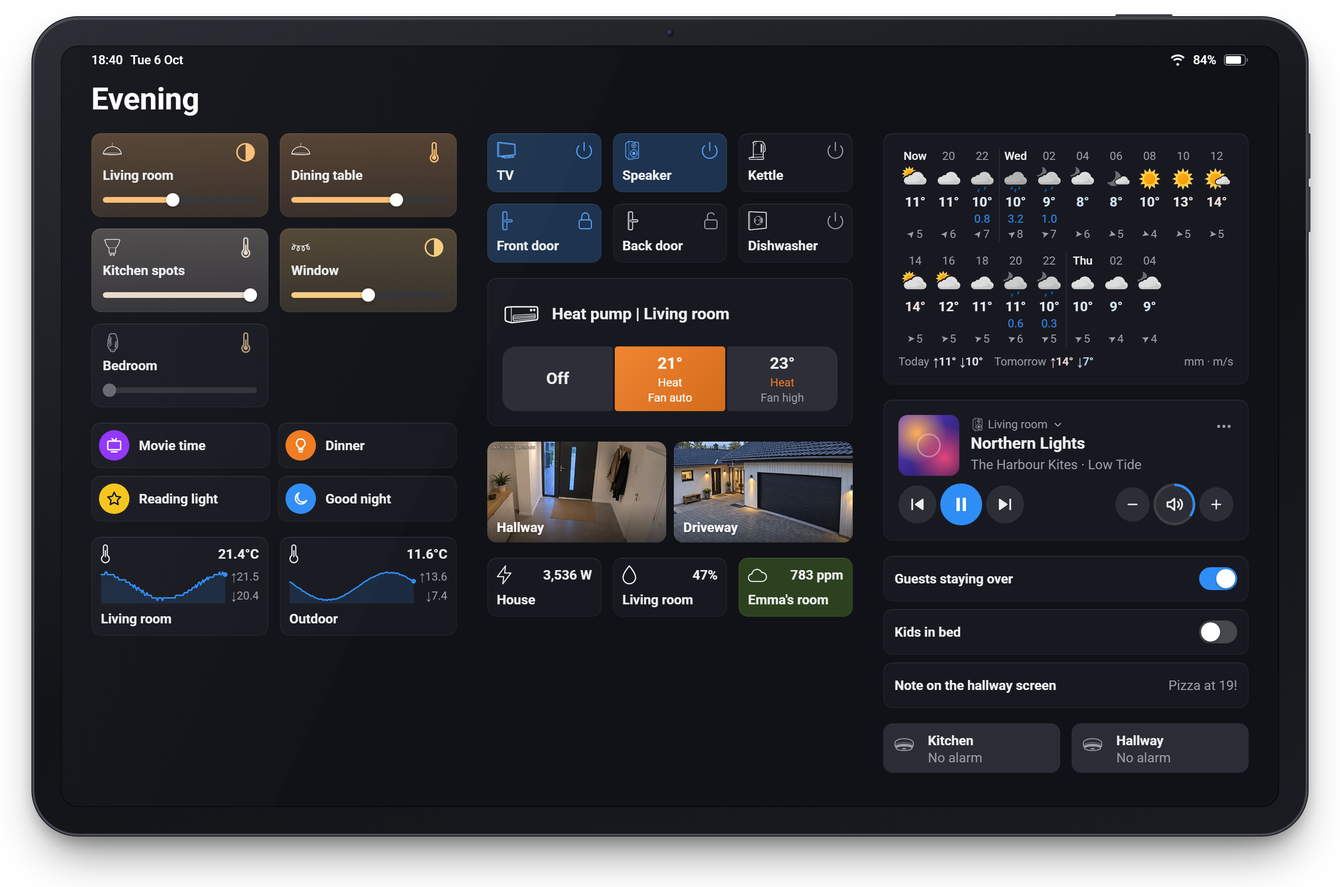
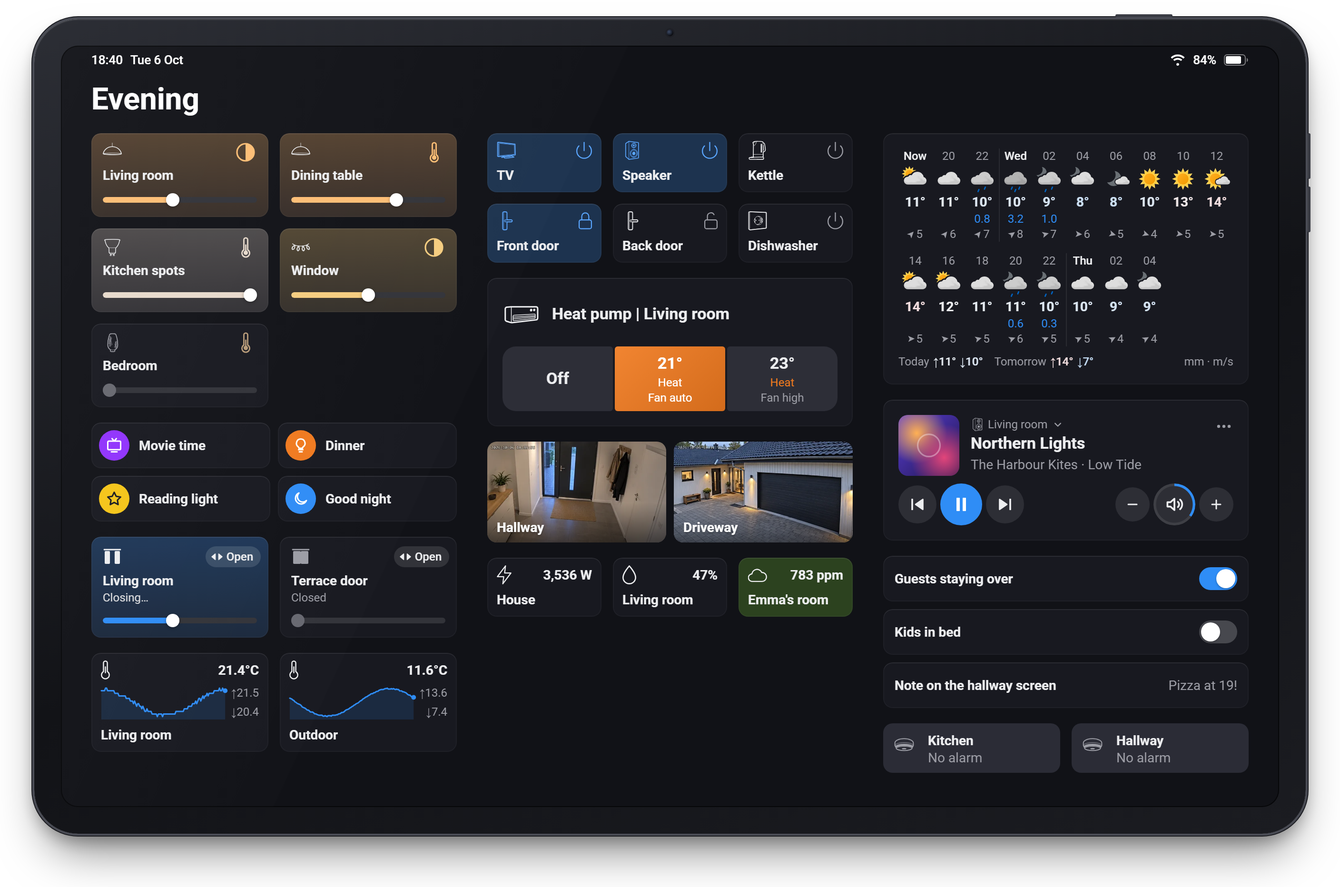
Shorter README; curtains on the Evening showcase
The README's widget sections are a sentence or two and a short settings
line each, the API key explanation is one section the four widgets that
need it link to, and the dashboard examples are just their names. The
Evening showcase gains two curtains (the living room's closing at dusk),
so every widget but the Smart Stack is on a dashboard.

Claude-Session: https://claude.ai/code/session_01JrMJVspJeLygBp5YX8rqay

Changed region(s): [[0.0625, 0.5912, 0.3438, 0.8401], [0.2188, 0.7468, 0.3438, 0.8401]]

diff --git a/dev/showcase.html b/dev/showcase.html
@@ -31,6 +31,7 @@
   <link rel="stylesheet" href="../widgets/lights/public/widget.css">
   <link rel="stylesheet" href="../widgets/sparklines/public/widget.css">
   <link rel="stylesheet" href="../widgets/media/public/widget.css">
+  <link rel="stylesheet" href="../widgets/curtains/public/widget.css">
   <script src="../widgets/electricity/public/widget.js"></script>
   <script src="../widgets/thermostat/public/widget.js"></script>
   <script src="../widgets/quickactions/public/widget.js"></script>
@@ -48,6 +49,7 @@
   <script src="../widgets/lights/public/widget.js"></script>
   <script src="../widgets/sparklines/public/widget.js"></script>
   <script src="../widgets/media/public/widget.js"></script>
+  <script src="../widgets/curtains/public/widget.js"></script>
   <script src="../temp/screenshot-icons.js" onerror="window.ICONS = {}"></script>
   <script src="mock-media.js"></script>
   <script src="mock-util.js"></script>

diff --git a/dev/showcase-data.js b/dev/showcase-data.js
@@ -455,6 +455,11 @@
             ['advanced:v1', 'Movie time', 'purple', 'tv'], ['flow:v2', 'Dinner', 'orange', 'bulb'],
             ['flow:v3', 'Reading light', 'yellow', 'star'], ['flow:v4', 'Good night', 'blue', 'moon'],
           ]),
+          // Dusk: the living room curtain on its way down, the terrace door's already closed.
+          { type: 'curtains', devices: [
+            { id: 'ec1', name: 'Living room', kind: 'curtain', caps: { windowcoverings_set: { value: 0.45, setable: true }, windowcoverings_state: { value: 'down', setable: true } } },
+            { id: 'ec2', name: 'Terrace door', kind: 'curtain', caps: { windowcoverings_set: { value: 0, setable: true }, windowcoverings_state: { value: 'idle', setable: true } } },
+          ] },
           { type: 'sparklines', slots: indoorSparks.slice(0, 2) },
         ],
         [

diff --git a/dev/showcase-mount.js b/dev/showcase-mount.js
@@ -22,6 +22,7 @@ const MOUNT = {
   locks: (el, w) => createLocksWidget(el, w.opts || {}).setState({ devices: w.devices, language: 'en' }),
   sparklines: (el, w) => createSparklinesWidget(el, w.opts || {}).setState(w.slots),
   lights: (el, w) => createLightsWidget(el, w.opts || {}).setState(w.devices),
+  curtains: (el, w) => createCurtainsWidget(el, w.opts || {}).setState(w.devices),
   cameras: (el, w) => { const x = createCamerasWidget(el, w.opts || {}); x.setState(w.cameras); x.refresh(); },
   heatmap: (el, w) => createHeatmapWidget(el, { locale: LOCALE, ...w.opts }).setData(w.data),
   // The made-up speakers of mock-media.js (drawn covers); the fixed clock keeps the position still.

diff --git a/dev/mock-dashboard.js b/dev/mock-dashboard.js
@@ -55,7 +55,7 @@
   const doors = findWidget('locks'); // security: the shed unlocked and the garage open, here with the list showing
   MOUNT.locks(el('w-locks'), { ...doors, opts: { ...doors.opts, view: 'list' } });
 
-  // Solbakken's curtains (no showcase dashboard has them): one open, one closing (so a tap would open it again), one closed and a
+  // Solbakken's curtains (four more than the Evening dashboard's two): one open, one closing (so a tap would open it again), one closed and a
   // blind part open.
   const cap = value => ({ value, setable: true });
   const curtains = createCurtainsWidget(el('w-curtains'), {});

diff --git a/README.md b/README.md
@@ -83,192 +83,162 @@ Several widgets in one spot, one at a time, with the one that matters brought fo
 ## Electricity Overview
 <img src="docs/screenshots/electricity.png" alt="Electricity Overview on a Homey dashboard" width="358">
 
-Live power use (30 seconds to 1 hour), the hourly price from yesterday to 12 hours ahead, the last 24 hours of usage and the cheapest upcoming hour. Tap a chart, or hover with a mouse, to see the value at that moment.
+Live power use, the hourly price from yesterday to 12 hours ahead (with your tariffs and taxes from Homey Energy), the last 24 hours of usage and the cheapest hour ahead. Tap a chart to see its values. Works with a fixed price too, and shows solar export below zero.
 
-Works with dynamic prices or a fixed price set in Homey Energy (Homey Pro 12.6 or later); with a fixed price the header shows it and usage gets its own chart. Dynamic prices include the tariffs and taxes you set up in Homey Energy, as in Homey's own Energy tab. Solar export shows below zero in yellow. Needs a device that reports power.
-
-**Settings:** power meter, live chart time span, show electricity prices, include tariffs and taxes (on by default; off shows the spot price), usage history (on the price chart or separate, neutral or purple), smooth lines, lowest price in the next 12 h, 24 h or both.
+**Settings:** power meter, live time span, prices, tariffs and taxes, usage history, smooth lines, lowest price in 12 h / 24 h, compact layout.
 
 ## Thermostat Shortcuts
 <img src="docs/screenshots/thermostat.png" alt="Thermostat Shortcuts on a Homey dashboard" width="358">
 
-Three one-tap presets for a thermostat, heat pump or air conditioner, such as *Off*, *Heat 21°* and *Heat 24° · Fan level 5*. Each sets on/off, the target temperature, the mode and one extra option such as the fan speed. The matching preset lights up; otherwise the widget shows the device's current state.
+Three one-tap presets for a thermostat, heat pump or air conditioner, such as *Off*, *Heat 21°* and *Heat 24° · Fan level 5*. The matching preset lights up.
 
-**Settings:** thermostat or aircon, and per button: power (on, off or unchanged), mode, temperature, and a fan or other setting.
+**Settings:** the device, compact layout, and per button: power, mode, temperature and one extra option such as the fan speed.
 
 ## Device Quick Actions
 <img src="docs/screenshots/quickactions.png" alt="Device Quick Actions on a Homey dashboard" width="358">
 
-Half-height tiles that run a device's quick action with one tap, the same as the round button on Homey's own tile: on/off, lock/unlock, play/pause or a button press. A tile is highlighted while the device is on, locked or playing.
+Half-height tiles that run a device's quick action with one tap (on/off, lock, play/pause, a button), highlighted while it's on.
 
-**Settings:** devices, active style (blue tint or lighter tile).
+**Settings:** devices, active style.
 
 ## Sensor Alarms
 <img src="docs/screenshots/sensoralarms.png" alt="Sensor Alarms on a Homey dashboard" width="358">
 
-Tiles in the style of Homey's temperature tiles that show *No alarm*, the alarm that's on (such as *Smoke alarm*) or the number of alarms, and turn red while one is on. Every alarm counts, including those added by apps, such as radon.
+Tiles that show *No alarm*, the alarm that's on or how many, and turn red while one is. Every alarm counts, including apps' own such as radon. Tap a tile for all of its alarms.
 
-**Settings:** sensors, count motion and contact as alarms (off by default).
+**Settings:** sensors, count motion and contact, tile names.
 
 ## Sensor Dots
 <img src="docs/screenshots/sensordots.png" alt="Sensor Dots on a Homey dashboard" width="358">
 
-Motion sensors, door and window contacts and camera detections (person, vehicle, pet) as a grid of dots: grey while quiet, blue while active, as many per row as fit. Tap a dot to show its name, what's active and since when, such as *Garage · Open since 18:17*, over its row; tap that line to close it.
+Motion, contact and camera sensors as a grid of dots that light up while active. Tap a dot for its name and since when, such as *Garage · Open since 18:17*.
 
-**Settings:** sensors, title (an optional header inside the tile), colour when idle (grey by default) and when active (blue by default): grey, blue, red, orange, yellow, green or purple.
+**Settings:** sensors, title, idle and active colours.
 
 ## Weather Forecast
 <img src="docs/screenshots/weather.png" alt="Weather Forecast on a Homey dashboard" width="358">
 
-The next 36 hours for your Homey's location from [MET Norway](https://www.met.no/en) ([yr.no](https://www.yr.no)): icon, temperature, precipitation and wind for each hour, with today's and tomorrow's high and low underneath. Swipe sideways to see further ahead.
+The next 36 hours from [MET Norway](https://www.met.no/en) ([yr.no](https://www.yr.no)), hour by hour, with today's and tomorrow's high and low. Swipe sideways to see further ahead.
 
-**Settings:** compact or detailed columns, one or two rows, every 1, 2 or 3 hours, colour theme.
+**Settings:** compact or detailed, one or two rows, 1–3 hours per column, colour theme.
 
 Weather data from MET Norway, licensed under [CC BY 4.0](https://creativecommons.org/licenses/by/4.0/). Icons: [Yr's weather symbols](https://github.com/metno/weathericons) (MIT).
 
 ## Insights Heatmap
 <img src="docs/screenshots/heatmap.png" alt="Insights Heatmap on a Homey dashboard" width="358">
 
-A week of one Insights value as a grid of weekdays and hours, with a scale and a marker at the current value. Works with numbers (light, temperature, power …) and on/off values (motion, contact …), shown as the share of each hour they were on. On/off history fills in over the first days, as Insights keeps only their last 50 changes.
+A week of one Insights value as a grid of days and hours: numbers such as light or temperature, or how much of each hour a sensor was on.
 
-**Settings:** device and value, this week or the last 3–14 days, 1–3 hours per column, colour (blue, red, orange, yellow, green or purple), show scale, show legend.
+**Settings:** device and value, this week or the last 3–14 days, hours per column, colour, scale, legend.
 
 ## Cameras
 <img src="docs/screenshots/cameras.png" alt="Cameras on a Homey dashboard" width="358">
 
-Your cameras in a grid of snapshots that refresh every few seconds. Tap one to watch it live through Homey's own live view; tap again to go back.
+Your cameras as a grid of snapshots that refresh every few seconds. Tap one to watch it live.
 
-**Settings:** cameras, refresh interval (5 s to 1 min).
+**Settings:** cameras, refresh interval.
 
 ## Device Values
 <img src="docs/screenshots/values.png" alt="Device Values on a Homey dashboard" width="358">
 
-Half-height tiles that each show one device value, such as a temperature, a battery level or on/off, updated live. Percentages can fill their tile in red, yellow or green.
+Half-height tiles that each show one live device value. Percentages can fill their tile by level, and the Flow card **Set the tile colour of … to …** colours a tile, such as a fridge going red when it's too warm.
 
-A Flow can colour the tiles: the action card **Set the tile colour of … to …** gives every tile showing that value red, orange, yellow, green, blue or purple, and Default resets it. For example, a fridge thermometer blue below 5 °C and red above, or an internet check green while it passes and red when its alarm goes off.
-
-**Settings:** up to six values, 3 or 2 tiles per row, fill percentages by level with adjustable limits.
+**Settings:** up to six values with optional names, 3 or 2 per row, percentage fill and its limits.
 
 ## Light Controls
 <img src="docs/clips/lights.webp" alt="Light Controls on a Homey dashboard: a light turned on, dimmed with the bar, and given a colour and a white" width="358">
 
-Compact light tiles, six in the space of three of Homey's light cards. Tap a tile to turn the light on or off, drag or tap the bar to set the brightness, and tap the colour button (a half-filled circle, or a thermometer on white-only lights, in the light's colour) to pick a colour or a white from a row of swatches. On Android, tap the bar instead of dragging. Lights in the same room can share one tile that controls them all. Plugs and switches that only turn on and off get a tile without the bar.
+Six lights in the space of three of Homey's light cards. Tap a tile to switch it, drag or tap the bar to dim, and tap the colour button for colours and whites. Lights in a room can share one tile.
 
-**Settings:** lights, group by room, the brightness bar's far left (turns the light off, or dims to 1 % and stays on), colour palette (bright colours, warm from red to cool white, or dusk).
+**Settings:** lights, group by room, what the bar's far left does, colour palette.
 
 ## Sparklines
 <img src="docs/screenshots/sparklines.png" alt="Sparklines on a Homey dashboard" width="358">
 
-Device Values' tiles with a small chart of each value from Insights, with its highest and lowest, following the live value.
+Device Values' tiles with a small live chart of each value and its highest and lowest.
 
-**Settings:** up to six values, time span (1 h, 6 h, 24 h or 7 days), 2 or 1 tiles per row.
+**Settings:** up to six values, time span (1 hour to 7 days), 2 or 1 per row.
 
 ## Flow Variables
 <img src="docs/screenshots/variables.png" alt="Flow Variables on a Homey dashboard" width="358">
 
-Homey's Logic variables as compact rows that show the full name: a switch for a yes/no variable, − and + for a number, and the text for a string. Tap a number or a text to type a new value. Changes made by flows show up live.
+Logic variables as compact rows with their full name: a switch for yes/no, − and + for a number, and the text for a string. Tap a number or text to type a value. Needs an [API key](#api-key) to change them.
 
-**Settings:** up to ten variables, 1 or 2 columns, and the step for − and +.
-
-Homey doesn't let apps change variables on their own, so changing them needs a Homey API key. In the Homey web app, create one under **Settings → API Keys** with permission to change variables. Then paste it under **Apps → Widgetkeeper → Configure**. The key stays on your Homey. Without a key the widget shows the variables but can't change them.
+**Settings:** up to ten variables with optional names, 1 or 2 columns, the − and + step.
 
 ## Flow Buttons
 <img src="docs/screenshots/flows.png" alt="Flow Buttons on a Homey dashboard" width="358">
 
-Flows and Advanced Flows as compact rows, the size of Flow Variables' rows: a round button in its own colour and icon, then the flow's name. Tap anywhere on a row to start the flow; the button spins while it starts and shows a check mark once it has. A flow that's turned off is dimmed.
+Flows and Advanced Flows as rows with a round button in your colour and icon. Tap a row to start the flow. Needs an [API key](#api-key).
 
-**Settings:** up to eight flows, each with a colour (blue, red, orange, yellow, green, purple or grey) and an icon (44 to pick from), in 1 or 2 columns. Only flows that can be started by hand are listed.
-
-Like changing variables, starting flows needs a Homey API key, here with permission to start flows. One key can do both: create it under **Settings → API Keys** in the Homey web app and paste it under **Apps → Widgetkeeper → Configure**. Without a key the widget shows the flows, and a tap says how to add one.
+**Settings:** up to eight flows, each with a colour, an icon and an optional name; 1 or 2 columns.
 
 ## Price Badge
 <img src="docs/screenshots/price.png" alt="Price Badge on a Homey dashboard" width="358">
 
-The electricity price now, the next hour's (with an arrow up or down) and the cheapest hour in the next 12 or 24 hours, in one compact tile. The tile is green, yellow or red by where the price now sits among today's prices. It uses the same prices as the Electricity Overview, from Homey Energy with your tariffs and taxes, and needs no meter. With a fixed price it shows just that price.
+The electricity price now, the next hour's and the cheapest hour ahead in one tile, green, yellow or red by today's price level. Uses the Electricity Overview's prices and needs no meter.
 
-**Settings:** show the next hour (on by default), the lowest price (next 12 hours by default, next 24 hours or off), colour by price level (on by default), include tariffs and taxes (on by default).
+**Settings:** next hour, lowest in 12 h or 24 h, colour by level, tariffs and taxes.
 
 ## Timers
 <img src="docs/screenshots/timers.png" alt="Timers on a Homey dashboard" width="358">
 
-Up to four preset buttons, such as *5 min* or *Eggs · 7 min*. Tap one to start the timer: it takes the buttons' place, so the widget always takes the same space, and shows the time left, filling down as it runs. Tap it to pause or resume it, **+1** adds a minute and **✕** cancels it (the buttons come back). When it runs out it turns red and the screen beeps for a minute; tap it to dismiss it. One timer runs at a time; for two, add a second widget.
+Up to four preset buttons, such as *Eggs · 7 min*. A started timer takes their place: tap to pause, **+1** for a minute more, **✕** to cancel. It beeps and turns red when done. The timer runs on Homey, so every screen sees it and the Flow card **A timer finished** fires with no dashboard open.
 
-The timer runs on your Homey, not on the screen: every phone or tablet showing the dashboard sees the same timer, and the Flow card **A timer finished** (with the timer's name and minutes) fires even with no dashboard open, so Homey can announce it or flash a light.
-
-**Settings:** four timers, each with its minutes (0 hides it; 0.5 is 30 seconds) and an optional name, and whether to beep (on by default; phones and tablets only play sound after the widget has been touched once).
+**Settings:** four presets with minutes and an optional name, sound.
 
 ## Locks and Doors
 <img src="docs/screenshots/locks.png" alt="Locks and Doors on a Homey dashboard" width="358">
 
-Locks, door and window contacts and garage doors in one line: *All locked and closed* with a green padlock, or the device that isn't (*Back door · Unlocked since 18:12*), or how many aren't (*2 open or unlocked*) on a red tile. Tap it for the list of every device and its state, with a **Lock** or **Close** button for a lock or garage door that isn't secure, and **Lock all** for several.
+Locks, doors, windows and garage doors in one line: *All locked and closed*, or what isn't, on a red tile. Tap it for the list, with **Lock** and **Close** buttons.
 
-**Settings:** devices, show one line (tap for the list; the default) or every device, and allow unlocking and opening (off by default: the widget can only lock and close).
+**Settings:** devices, one line or the full list, allow unlocking.
 
 ## Curtains
 <img src="docs/screenshots/curtains.png" alt="Curtains on a Homey dashboard" width="358">
 
-Curtains and blinds as tiles, two per row. Tap a tile to open or close it, the way curtains used to toggle in Homey; the pill in its corner always says what a tap will do (**Open** or **Close**), so a half-open curtain never leaves you guessing. A tap while it moves sends it back the other way. The slider sets any position in between, and the icon's drapes follow the real position. A curtain that's moving shows where it's heading.
+Curtains and blinds as tiles: tap to open or close (the corner label says which), or use the slider for anything between. A tap while it moves sends it back.
 
-**Settings:** devices; what a tap does for a half-open curtain (go to the nearer end, the default, or reverse its last move); position 100% means closed (for curtains such as SwitchBot that count the other way); show the state under the name (on by default; off makes the tiles lower); group by room (curtains in the same room share one tile that moves them all).
-
-Works with curtains that have a position, ones with just open, stop and close, and ones that are only open or closed. Homey's Android app takes over a drag on the slider, so there you tap the slider where you want it.
+**Settings:** devices, what a tap does halfway, inverted position, state line, group by room.
 
 ## Media
 <img src="docs/clips/media.webp" alt="Media on a Homey dashboard: the volume turned up, the next track, mute, the TV as the source from behind ⋯, and a switch to another speaker" width="358">
 
-One speaker as a compact card: the album art, the track and the artist, previous, play and next, and mute on the right. The volume is a bar between − and + on its own line, or just − and + next to play, with the level as a ring around mute. It moves on every tap of − or +, and a burst of taps is sent once, so it never runs ahead of you; set a maximum volume and neither + nor the bar goes past it. On TV or line-in the card says so instead of greying out, and mute and the volume keep working.
+One speaker as a card: album art, the track, play controls, mute, and a volume that moves on every tap but never overshoots or passes your maximum. Shows TV and line-in instead of old album art. Tap the name to switch speaker. Up to four buttons behind ⋯ run the speaker's own actions (such as *Set source to TV*) or flows; they need an [API key](#api-key).
 
-Tap the speaker's name (with its device icon) to switch to another speaker; each screen remembers its own choice, and the speaker in the settings stays the default.
-
-Up to four buttons, behind ⋯ in the corner, run the speaker's own actions, such as *Set source to TV* or *Set source to Line-In*, or any flow. A button for the TV is lit while the speaker plays from the TV, and so is ⋯. After a switch, a speaker action runs as the same action of the new speaker, and is hidden when that speaker doesn't have it. The buttons need an API key in Widgetkeeper's app settings, which may manage flows for the speaker's actions (or only start flows, for flows).
-
-**Settings:** the speaker, switching speaker (on by default), the volume as a bar or as buttons, the volume step (2, 5 or 10 %), the maximum volume, the progress bar and time (on by default), shuffle and repeat (off by default; with the volume as buttons they're behind ⋯ too), and four buttons, each with an optional icon and name.
-
-Works with any speaker in Homey; made with Sonos in mind.
+**Settings:** speaker, speaker switching, volume as a bar or buttons, volume step and maximum, progress, shuffle and repeat, four buttons with an icon and a name.
 
 ## Smart Stack
 <img src="docs/clips/stack.webp" width="382" alt="A Smart Stack on a Homey dashboard: it turns through four widgets, is swiped by hand, and brings the cameras forward when someone is at the door">
 
-Widgetkeeper widgets from another dashboard, one at a time in the space of one. Set up a dashboard with the widgets you want to rotate (for example cameras, the speaker and a timer), then put a Smart Stack on your main dashboard and pick that dashboard. The stack turns to the next widget every 30 seconds (or 10 s to 5 min, or never), and its height follows the widget it shows. Swipe, or tap the dots under it, to move by hand; the stack then holds still for a minute.
+Widgetkeeper widgets from another dashboard, one at a time in the space of one. It turns every 30 seconds, and swipes or the dots move it by hand. Smart rotate brings a widget forward while something happens on it: music plays, a timer runs, a camera sees someone, a door is open. A Flow card can bring one forward too. Needs an [API key](#api-key) to read the dashboard.
 
-With smart rotate on, a widget comes forward while something happens on it: the speaker plays, a timer runs or rings, a camera sees someone, a sensor alarm goes off, or a door is open or unlocked. When several do, they take turns; one you swipe away from only comes back the next time it starts. The Flow card *Bring a widget forward on Smart Stacks for … minutes* does the same from any Flow (a doorbell, say), and *Return Smart Stacks to rotation* ends it.
-
-The widgets in a stack are the real ones, with the settings and devices you gave them on the other dashboard; a timer started in the stack is the same timer as on that dashboard. Only Widgetkeeper widgets can be in a stack: Homey's own widgets and other apps' are left out.
-
-Homey doesn't let an app read your dashboards, so the stack needs an API key in Widgetkeeper's app settings that may read dashboards. In Homey's Android app a swipe may be taken by the dashboard; the dots always work.
-
-**Settings:** the dashboard, how often it turns (30 s by default), smart rotate (on by default), how long it holds still after a swipe (1 min by default) and the page dots (on by default; below or above the widget, small or large).
+**Settings:** dashboard, interval, smart rotate, pause after a swipe, dots.
 
 ## Dashboard examples
-Seven dashboards from a made-up house, on a tablet in Homey's dark mode.
-
-**Home:** electricity, the heat pump, flow buttons, the weather, lights, quick actions, sensor alarms, cameras, sparklines and a motion heatmap.
-
+**Home**
 <img src="docs/showcase/home.png" alt="A home dashboard with Widgetkeeper widgets on a tablet" width="100%">
 
-**Energy:** electricity with a separate purple usage chart, a power heatmap in orange, sparklines of the big consumers, the price badge at the evening peak, the heat pump, the weather in detail, appliance quick actions, device values (*Today* coloured green by a Flow) and the car charging flags.
-
+**Energy**
 <img src="docs/showcase/energy.png" alt="An energy dashboard with Widgetkeeper widgets on a tablet" width="100%">
 
-**Security:** six cameras, sensor alarms with motion and contact counted, locks and doors with the shed unlocked, door locks, a motion heatmap, battery levels filled by level, flow variables, outdoor lights, sensor dots with the garage door open and the weather.
-
+**Security**
 <img src="docs/showcase/security.png" alt="A security dashboard with Widgetkeeper widgets on a tablet" width="100%">
 
-**Climate:** the heat pump, a bedroom radiator and the bathroom floor heating, room temperatures and humidity as device values, a week of the living room's temperature in red, sparklines, the weather coloured by temperature, flow buttons for airing out and frost guard, and the night setpoint.
-
+**Climate**
 <img src="docs/showcase/climate.png" alt="A climate dashboard with Widgetkeeper widgets on a tablet" width="100%">
 
-**Evening:** lights grouped by room with the dusk palette, flow buttons for movie time, dinner and good night, quick actions for the TV, speaker and locks, the heat pump, two cameras, the weather in two rows of 2-hour steps, the living room speaker, and the evening's flags.
-
+**Evening**
 <img src="docs/showcase/evening.png" alt="An evening dashboard with Widgetkeeper widgets on a tablet" width="100%">
 
-**Garden:** four garden cameras, outdoor lights, a detailed two-row forecast with sky colours, a week of daylight in yellow, temperature and wind sparklines, soil moisture filled by level, flow buttons for watering and mowing, and sensor dots with someone on the driveway.
-
+**Garden**
 <img src="docs/showcase/garden.png" alt="A garden dashboard with Widgetkeeper widgets on a tablet" width="100%">
 
-**Kitchen:** electricity with the cheapest hours in the next 12 and 24, flow buttons such as *Dinner's ready*, appliance quick actions, the fridge and freezer coloured by a Flow, smoke and water alarms, a pizza timer, the kitchen lights, a shopping list and the hallway camera.
-
+**Kitchen**
 <img src="docs/showcase/kitchen.png" alt="A kitchen dashboard with Widgetkeeper widgets on a tablet" width="100%">
+
+## API key
+Homey doesn't let apps change variables, start flows or read dashboards on their own, so Flow Variables, Flow Buttons, Media's buttons and Smart Stack need a Homey API key. Create one in the Homey web app under **Settings → API Keys** with those permissions, and paste it under **Apps → Widgetkeeper → Configure**. The key stays on your Homey.
 
 ## Languages
 English, Dutch, German, French, Italian, Swedish, Norwegian, Spanish, Danish, Russian, Polish, Korean and Arabic, following Homey's language.

diff --git a/CLAUDE.md b/CLAUDE.md
@@ -23,7 +23,7 @@ Homey Pro app (`com.thomassidor.widgetkeeper`) that hosts custom dashboard widge
   - Three so far (`lights`, `stack`, `media`; 16–23 s, 0.3–0.65 MB); in the README the Light Controls and Media clips replaced their screenshots (their PNGs and shots were removed), and the stack's tops its section.
 - `npm run showcase [-- home energy security]`: renders the showcase dashboards (`docs/showcase/<id>.png`; the README's top image is `home.png`, and its Dashboard examples section shows all seven: `home`, `energy`, `security`, `climate`, `evening`, `garden` and `kitchen`) from `dev/showcase.html?d=<id>`: three columns of the real widgets on Homey's dark dashboard, on a drawn 16:10 tablet (a 1280 × 800 screen), at 2x on a transparent background.
   - The data is a made-up house, "Solbakken", on Tuesday 6 October 2026 at 18:40 (`dev/showcase-data.js`); `dev/fixed-clock.js` replaces `Date` to fix the clock (also loaded by the screenshots and clips pages), so every render is the same. The electricity widget uses `smooth`.
-  - Energy has the Price Badge, Security Locks and Doors (one line: the shed unlocked and the garage open; the README screenshot shows its list) Kitchen a pizza timer (in place of a "Pizza timer" variable) and Evening the Media widget (the condensed layout: − and + by play, no progress; `mountMockMedia()` from `dev/mock-media.js`).
+  - Energy has the Price Badge, Security Locks and Doors (one line: the shed unlocked and the garage open; the README screenshot shows its list) Kitchen a pizza timer (in place of a "Pizza timer" variable) and Evening two curtains (one closing) and the Media widget (the condensed layout: − and + by play, no progress; `mountMockMedia()` from `dev/mock-media.js`).
   - A dashboard is `SHOWCASE[id] = { title, columns: [[{ type, … }]] }`; `MOUNT` in `dev/showcase-mount.js` (shared with the screenshots and clips) creates each widget type. A new dashboard is a new entry; `thermo()` (a thermostat with three temperature presets) and `flowButtons()` build the newer ones.
   - The cameras (showcase and README screenshots) show `dev/cameras/<id>.webp`: AI-generated snapshots of the made-up house, cut from one picture to 640 × 360 with the timestamp baked in. The dev previews keep the drawn scenes of `dev/mock-cameras.js`.
   - The script warns when a column runs off the screen (it's cut off, like a dashboard you'd scroll).
@@ -329,7 +329,7 @@ How this project uses it:
 - `showState` (checkbox "Show the state under the name", on by default; `index.html` treats a missing value as on): off adds `.ct-no-state` on the root, which hides the state line (88 px tiles).
 - `groupByZone` (off by default) as Light Controls': a room's selected curtains share a tile with the average position; a tap moves them all the same way, and the bar sets every one with a position.
 - Endpoints: `GET /state?deviceIds=` (`{id, name, kind, zone, caps: {windowcoverings_*: {value, setable}}}` or `{id, missing}`) and `POST /set {deviceId, position}` (the device's own scale) or `{deviceId, action: open|close}`. Realtime: `curtains:state` `{deviceId, capabilityId, value}`.
-- The README screenshot's curtains are inline in `mock-dashboard.js` (no showcase dashboard has curtains).
+- The README screenshot's curtains are inline in `mock-dashboard.js`; the Evening showcase has two (`MOUNT.curtains`).
 
 ## Media widget
 - One speaker as a card (a user's request: Homey's large media widget had stale album art, greyed out on TV, had no mute, couldn't switch the source, and its volume lagged so the kids overshot). `lib/MediaService.ts` owns it, with Light Controls' tracking (one capability instance per capability except the `speaker_next`/`speaker_prev` buttons, `DeviceTracker` re-reads, dropped after 10 min without `/state`). Not transparent: `homey-widget` with `.mw-frame`, the thermostat's dark frame. The re-read also fetches the device icon again, so a changed `iconOverride` shows.
